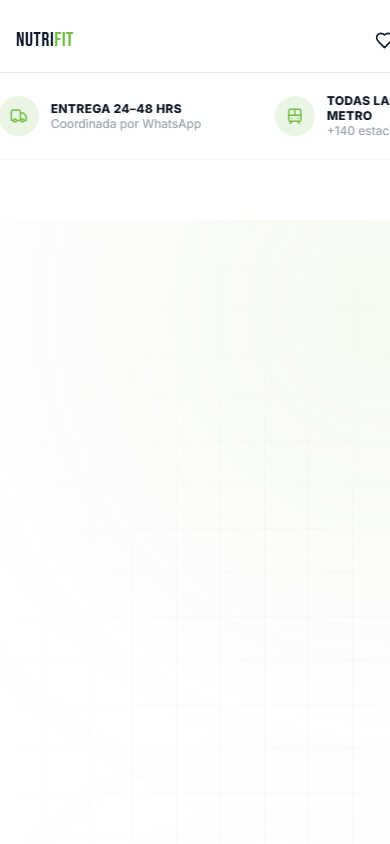
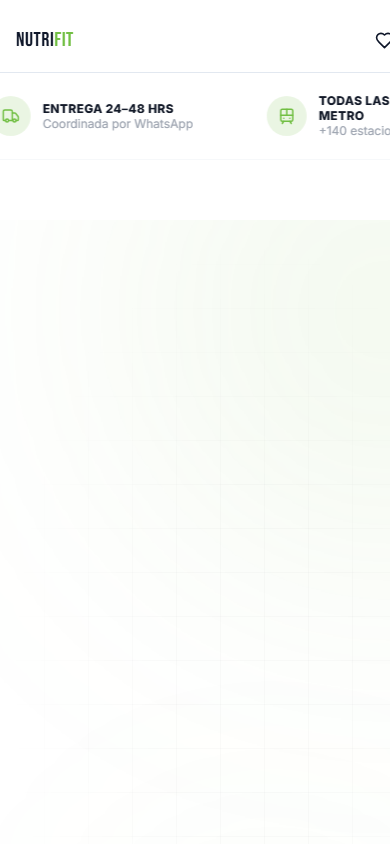
design(home): quita prueba social/escasez no verificable del hero
- se eliminan '+500 pedidos', '+500 deportistas' y 'quedan X unidades' (cifras no verificables)
- reemplazo por mensaje veraz: 'Disponible para entrega en Metro hoy'
- se conserva rating y resenas desde datos reales del catalogo
- se eliminan constante SOCIAL_PROOF y variable stockLeft sin uso
- capturas despues 390/1280 regeneradas

Changed region(s): [[0.6769, 0.0924, 1.0, 0.1848], [0.0, 0.0924, 0.5231, 0.154]]

diff --git a/src/components/home/HeroSection.tsx b/src/components/home/HeroSection.tsx
@@ -39,13 +39,6 @@ const whatsappUrl =
   waMeUrl(BRAND.whatsappDigits, WHATSAPP_MESSAGE) ??
   `https://wa.me/${BRAND.whatsappDigits}`;
 
-const SOCIAL_PROOF = [
-  { name: 'Matías R.', initials: 'MR' },
-  { name: 'Camila F.', initials: 'CF' },
-  { name: 'Jorge P.', initials: 'JP' },
-  { name: 'Ana S.', initials: 'AS' },
-];
-
 export default function HeroSection() {
   const { addBundle } = useCart();
   const [flavor, setFlavor] = useState<Flavor>(FLAVORS[0]);
@@ -56,7 +49,6 @@ export default function HeroSection() {
   const totalReviews = (whey?.reviews ?? 0) + (creatina?.reviews ?? 0);
   const avgRating =
     whey && creatina ? +((whey.rating + creatina.rating) / 2).toFixed(1) : 4.9;
-  const stockLeft = (whey?.publicPublished ? (whey?.publicStock ?? whey?.stock ?? 0) : (whey?.stock ?? 0)) + (creatina?.publicPublished ? (creatina?.publicStock ?? creatina?.stock ?? 0) : (creatina?.stock ?? 0));
 
   const addPack = () => {
     if (!pack) return;
@@ -117,10 +109,6 @@ export default function HeroSection() {
             <span className="h-3.5 w-px bg-gray-100" />
             <span className="text-[13px] text-gray-400">
               {totalReviews.toLocaleString('es-CL')} reseñas
-            </span>
-            <span className="h-3.5 w-px bg-gray-100" />
-            <span className="text-[13px] text-gray-400">
-              +500 pedidos entregados
             </span>
           </motion.div>
 
@@ -198,13 +186,11 @@ export default function HeroSection() {
             className="mt-4 flex items-center gap-2"
           >
             <span className="relative flex h-2 w-2">
-              <span className="absolute inline-flex h-full w-full animate-ping rounded-full bg-sport-orange opacity-60" />
-              <span className="relative inline-flex h-2 w-2 rounded-full bg-sport-orange" />
+              <span className="absolute inline-flex h-full w-full animate-ping rounded-full bg-sport-green opacity-60" />
+              <span className="relative inline-flex h-2 w-2 rounded-full bg-sport-green" />
             </span>
             <p className="text-[13px] font-semibold text-gray-600">
-              ¡Quedan solo{' '}
-              <span className="font-extrabold text-sport-orange">{stockLeft} unidades</span>{' '}
-              en stock!
+              Disponible para entrega en Metro hoy
             </p>
           </motion.div>
 
@@ -259,34 +245,6 @@ export default function HeroSection() {
             <span className="flex items-center gap-1.5">
               <Truck size={13} className="text-sport-green" /> Entrega en Metro
             </span>
-          </motion.div>
-
-          {/* Social proof avatars */}
-          <motion.div
-            initial={{ opacity: 0, y: 16 }}
-            animate={{ opacity: 1, y: 0 }}
-            transition={{ duration: 0.6, delay: 0.7 }}
-            className="mt-6 flex items-center gap-3"
-          >
-            <div className="flex -space-x-2.5">
-              {SOCIAL_PROOF.map((person, i) => (
-                <div
-                  key={person.name}
-                  className="flex h-8 w-8 items-center justify-center rounded-full border-2 border-white text-[10px] font-extrabold text-white"
-                  style={{
-                    backgroundColor: ['#72BF44', '#F97316', '#3B82F6', '#8B5CF6'][i],
-                    zIndex: 4 - i,
-                  }}
-                  title={person.name}
-                >
-                  {person.initials}
-                </div>
-              ))}
-            </div>
-            <p className="text-[13px] text-gray-500">
-              <span className="font-semibold text-gray-600">+500 deportistas</span>{' '}
-              ya tienen su pack
-            </p>
           </motion.div>
         </div>
 
